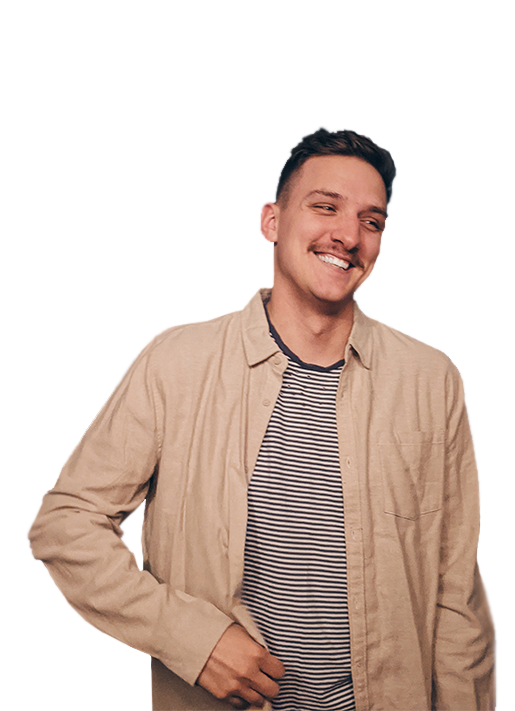
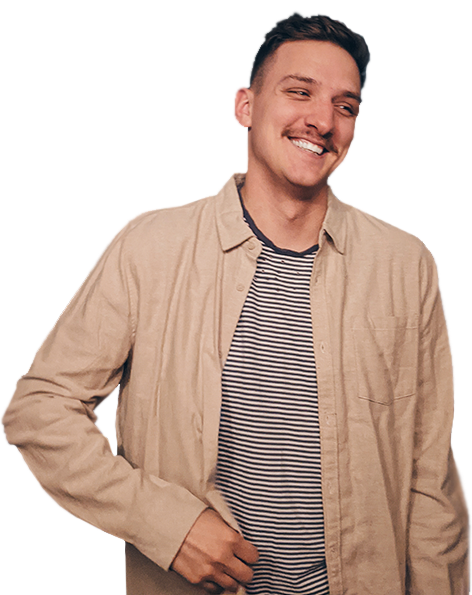
push to github

diff --git a/src/components/Header/Header.css b/src/components/Header/Header.css
@@ -1,16 +1,97 @@
 .header_container {
     padding: 0;
     display: grid;
+    grid-template-columns: repeat(3, 1fr);
+    height: 1000px;
+    width: 100vw;
+    overflow: hidden;
+    height: 100vh;
 }
 
 .headshot {
-    filter: drop-shadow(-8px 0px 25px #44475a);
+    filter: drop-shadow(-8px 0px 150px black);
     padding: 0;
-    margin: 0;
-    z-index: 0;
+    margin-bottom: -10px;
+    height: 1000px;
+    overflow-x: hidden;
 }
 
 .headshot_container {
     padding: 0;
     margin: 0;
+    grid-column: 2 / span 3;
+    grid-row: 1;
+    justify-self: center;
+    align-self: flex-end;
+    z-index: -1;
+}
+
+.header_cta {
+    grid-column: 1 / span 2;
+    grid-row: 1;
+    align-self: center;
+    justify-self: center;
+}
+
+.my_name {
+    font-size: 100px;
+    font-style: italic;
+    font-weight: 900;
+    letter-spacing: -10px;
+    margin: 0;
+    filter: drop-shadow(17px 10px 25px black);
+    color: #ff5555;
+}
+
+.cta_link {
+    position: relative;
+    top: 20px;
+    background-color: #44475a;
+    color: #f8f8f2;
+}
+
+.cta_description {
+    color: #f1fa8c;
+    filter: drop-shadow(2px 1px 0px #282a36);
+    font-style: italic;
+    font-weight: 100;
+}
+
+.cta_icons {
+    font-size: x-large;
+}
+
+@media only screen and (max-width: 1000px) {
+    .cta_description {
+        width: 75%;
+    }
+}
+
+@media only screen and (max-width: 600px) {
+    .header_cta {
+        grid-column: 1 / span 3;
+        justify-self: center;
+        align-self: center;
+        text-align: center;
+        padding-top: 250px;
+        background-color: rgb(68, 71, 90, .8);
+        width: 100vw;
+        height: inherit;
+        backdrop-filter: blur(2px);
+    }
+
+    .headshot {
+        height: 100vh;
+    }
+
+    .cta_description {
+        width: 100%;
+    }
+    
+    .header_container {
+        grid-column: 1 / span 3;
+    }
+    .my_name {
+        font-size: 90px;
+    }
 }

diff --git a/src/components/Nav/NavList.js b/src/components/Nav/NavList.js
@@ -1,10 +1,28 @@
-export default function NavList() {
-    return (
-        <ul>
-            <li><a href="#home">Home</a></li>
-            <li><a href="#projects">Projects</a></li>
-            <li><a href="#about-me">About Me</a></li>
-            <li><a href="#contact-me">Contact Me</a></li>
-        </ul>
-    )
+import { useTrail, animated, config } from "react-spring";
+
+export default function NavList(prop) {
+  const list = [
+    <a href="#home">Home</a>,
+    <a href="#projects">Projects</a>,
+    <a href="#about-me">About Me</a>,
+    <a href="#contact-me">Contact Me</a>
+  ]
+
+  const trail = useTrail(list.length, {
+      position: 'relative',
+      right: !prop.menuState ? -300 : 0,
+      opacity: !prop.menuState ? 0 : 1,
+      config: config.stiff
+    });
+
+  return(
+  <ul className="nav_list">
+      {trail.map((props, i) => 
+          <animated.li key={i} style={props} className="nav_list_item" onClick={prop.closeMenu}>
+              {list[i]}
+          </animated.li>
+      )
+    }
+  </ul>
+  )
 }

diff --git a/src/components/Header/CTA.js b/src/components/Header/CTA.js
@@ -1,14 +1,24 @@
+import { IoIosBeer } from "react-icons/io";
+import { CgMusicSpeaker } from "react-icons/cg";
+import { GiConverseShoe } from "react-icons/gi";
+import { GrReactjs } from "react-icons/gr";
+
 export default function CTA() {
-    return (
-        <div className='header_cta'>
-            <h1>AJ Bates</h1>
-            <h2>
-                Full-stack JavaScript developer 
-                <br /><br />
-                <a href='#contact-me' className='link_button'>
-                    Get in touch
-                </a>
-            </h2>
-        </div>
-    )
+  return (
+    <div className="header_cta">
+      <h1 className="my_name">AJ Bates</h1>
+      <p className="cta_icons">
+        <IoIosBeer />
+        <CgMusicSpeaker />
+        <GiConverseShoe />
+        <GrReactjs />
+      </p>
+      <h2 className="cta_description">Full-stack JavaScript developer</h2>
+      <p>
+        <a href="#contact-me" className="link_button cta_link">
+          Let's talk!
+        </a>
+      </p>
+    </div>
+  );
 }

diff --git a/src/components/Nav/Nav.css b/src/components/Nav/Nav.css
@@ -4,4 +4,45 @@
     right: 10px;
     top: 10px;
     text-align: right;
+    z-index: 10;
+}
+
+.nav_list {
+    list-style: none;
+    color: #282a36;
+    padding: 0;
+}
+
+.nav_list_item {
+    background-size: 220%;
+    color: #f8f8f2;
+    background-color: transparent;
+    background-position: 100%;
+    border-radius: 3px;
+    text-transform: uppercase;
+    padding: 8px 16px;
+    transition: all .2s ease-out;
+    font-weight: 900;
+    cursor: pointer;
+    letter-spacing: 2px;
+    background-image: linear-gradient(110deg, #f8f8f2 0%, #f8f8f2 50%, transparent 50%, transparent 100%);
+    font-size: 14px;
+    margin: 5px 0;
+    padding: 15px;
+    background-color: #282a36;
+}
+
+.nav_list_item:hover {
+    transform: translateY(-2px);
+    box-shadow: 0 0 .3em rgba(0, 0, 0, 0.25);
+    background-position: 0;
+    color: #282a36;
+}
+
+.menu_button {
+    font-size: xx-large;
+}
+
+.menu_button:hover {
+    cursor: pointer;
 }

diff --git a/src/index.css b/src/index.css
@@ -37,19 +37,17 @@ a {
   background-size: 220%;
   box-shadow: 0 .2em .3em rgba(0, 0, 0, 0.15);
   color: #ff5555;
-  background-color: transparent;
   background-position: 100%;
-  border: 3px solid #ff5555;
   text-transform: uppercase;
-  padding: 8px 16px;
-  border-radius: 50px;
+  padding: 15px 20px;
+  border-radius: 3px;
   transition: all .2s ease-out;
-  font-weight: 900;
+  font-weight: 400;
   cursor: pointer;
   letter-spacing: 2px;
   background-image: linear-gradient(110deg, #ff5555 0%, #ff5555 50%, transparent 50%, transparent 100%);
   font-size: 14px;
-  margin: 5px;
+  background-color: #282a36;
 }
 
 .link_button:hover {

diff --git a/src/components/Header/Me.js b/src/components/Header/Me.js
@@ -1,10 +1,9 @@
 import transparent from '../../images/transparent_headshot.png'
-import cropped from '../../images/cropped_head.png'
 
 export default function Me() {
     return (
         <div className='headshot_container'>
-            <img className='headshot' src={cropped} alt='AJ Bates II headshot' />
+            <img className='headshot' src={transparent} alt='AJ Bates II headshot' />
         </div>
     )
 }

diff --git a/src/components/Nav/NavMenu.js b/src/components/Nav/NavMenu.js
@@ -12,10 +12,9 @@ export default function NavMenu() {
                 className='menu_button'
                 onClick={() => openMenu(!menu)}
             />
-            { !menu
-                ? ''
-                : <NavList closeMenu={() => openMenu(!menu)} />
-            }
+            <NavList
+                menuState={menu}
+                closeMenu={() => openMenu(!menu)} />
         </nav>
     )
 }

diff --git a/src/App.js b/src/App.js
@@ -9,8 +9,10 @@ export default function App() {
     <div className="App">
       <NavMenu />
       <HeaderContainer />
-      <ProjectContainer />
-      <AboutContainer />
+      <main>
+        <ProjectContainer />
+        <AboutContainer />
+      </main>
       <FooterContainer />
     </div>
   );

diff --git a/src/components/Projects/Projects.css b/src/components/Projects/Projects.css
@@ -16,3 +16,7 @@
     margin: 0;
     padding: 0;
 }
+
+.project_screen {
+    width: 300px;
+}
